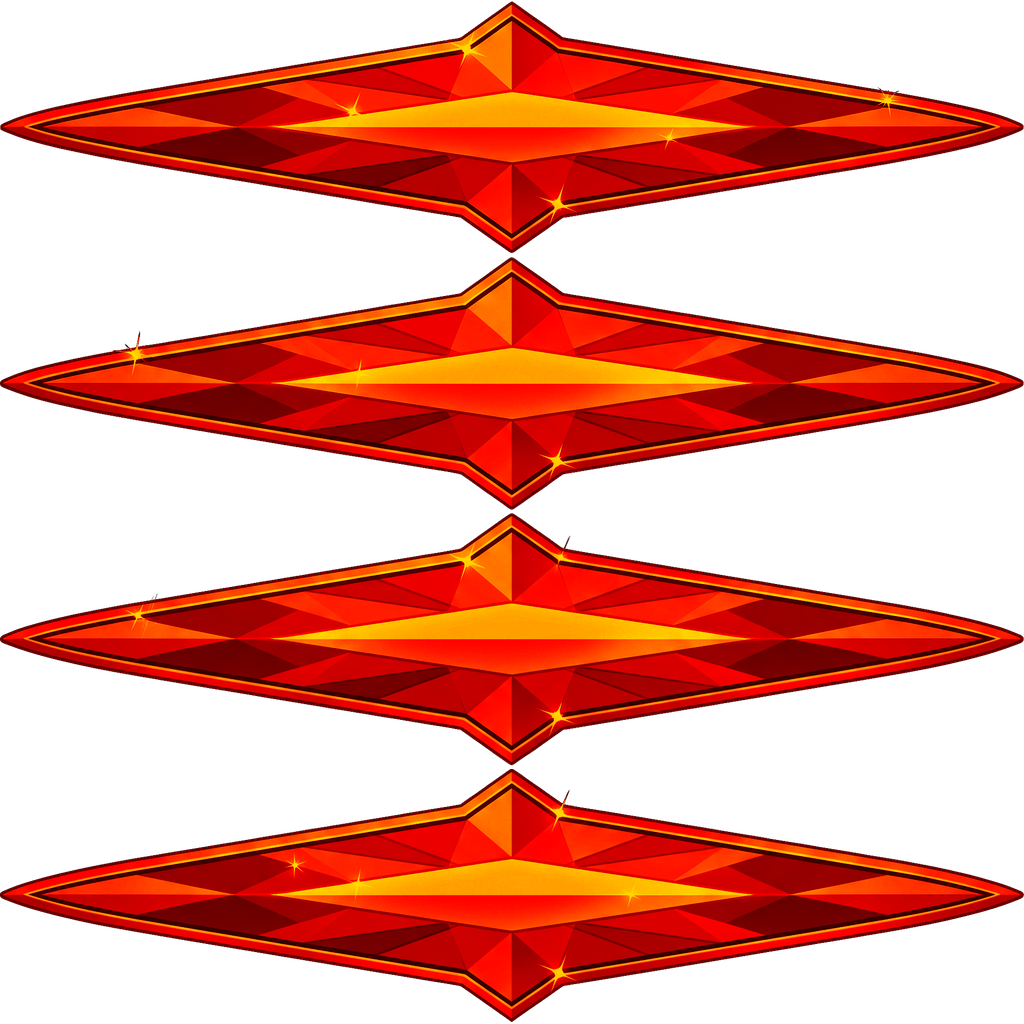
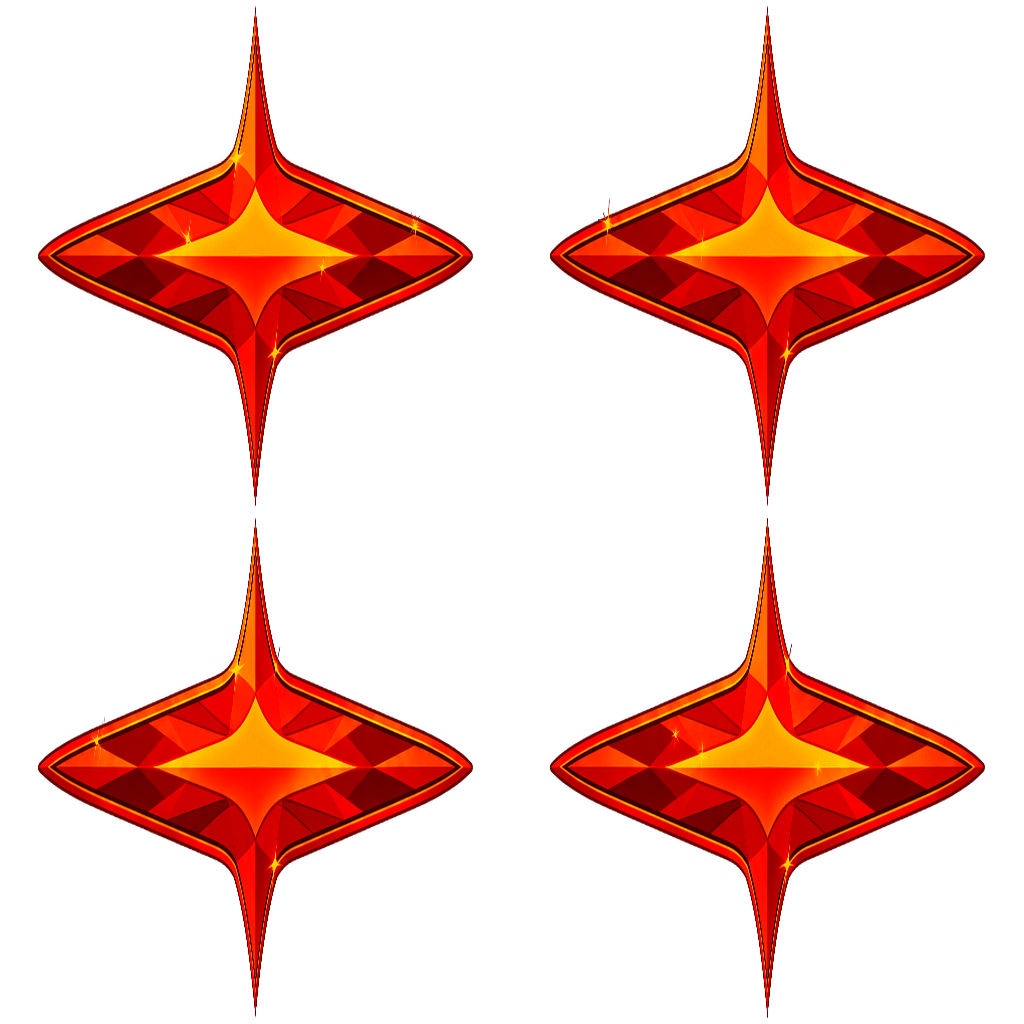
Four-pointed star note: fitted to the lane, long vertical points
The crystal set's note was a long cut gem drawn three times deeper than
its picture; its thin horizontal points stopped short of the lane's
edges and its vertical points were short. The build now draws each of
the four gems as a four-pointed star in screen proportions (gem_star):
each column of the gem stretched deeper the nearer the middle (the arms
2.6 times the gem's depth, the middle column the whole cell, the stretch
falling off as (1 - u/0.2)^3), filtered with cubic resampling weighted
by alpha so the points' edges stay smooth, and laid in 435 x 500 cells
of a 2 x 2 grid like the record's and the five-pointed star's.

The renderer draws the star from its cell over the whole note, the note
98% of its lane (noteWidthOf: the other notes keep 0.9) so its
horizontal points reach the lane's edges, and as deep as the star for
its width at the judge line (GEM_SHAPE 500/435); the band of light under
it is 22% of the note's depth. The code-drawn star (no pictures) is as
deep as it is wide, its waist thinner. A first try stretched the gem a
column at a time in the browser; its points came out lumpy, so the warp
moved into the build.

Tests: the star drawn from its cell over the whole note, its band, the
star alone 0.98 of the lane, its shape, the code star's depth.

고친 문제:
- 별 4각 노트의 가로 꼭짓점이 레인 끝에 못 미치고 위아래 꼭짓점이 짧아 잘 안 보임 → 레인 폭에 맞추고 위아래 꼭짓점을 길게 편 네 갈래 별

Claude-Session: https://claude.ai/code/session_01BwEeGPydwWxbHMk4SP9G9k

diff --git a/client/src/render/styleArt.ts b/client/src/render/styleArt.ts
@@ -210,10 +210,19 @@ function sidePlate(g: CanvasRenderingContext2D, side: ArtImage, set: Exclude<Art
 }
 
 /** CLUB's and NEON's notes.png: a cell of 512 per mark, two to a row, the note at (6, `top`) in it, 500 × `h` (its own proportions). */
-const NOTE_CELL: Record<'club' | 'neon', { top: number; h: number }> = {
-  club: { top: 6, h: 500 },
-  neon: { top: 12, h: 488 },
+const NOTE_CELL: Record<'club' | 'neon' | 'crystal', { left: number; top: number; w: number; h: number }> = {
+  club: { left: 6, top: 6, w: 500, h: 500 },
+  neon: { left: 6, top: 12, w: 500, h: 488 },
+  // the four-pointed star, deeper than it is wide (build_styles.py: gem_star)
+  crystal: { left: 38, top: 6, w: 435, h: 500 },
 };
+
+/** A cell of a set's notes.png (CLUB, NEON, CRYSTAL), the mark's, drawn over the whole note. */
+function drawCell(g: CanvasRenderingContext2D, notes: ArtImage, set: 'club' | 'neon' | 'crystal', mark: Exclude<NoteMark, 'side'>, w: number, h: number): void {
+  const i = MARK_CELL[mark];
+  const cell = NOTE_CELL[set];
+  g.drawImage(notes, (i % 2) * 512 + cell.left, Math.floor(i / 2) * 512 + cell.top, cell.w, cell.h, 0, 0, w, h);
+}
 
 /** CLUB: a record, as round as the coin it stands for, its lane's mark printed on its label. */
 function clubNote(notes: ArtImage, side: ArtImage | undefined): NotePaint {
@@ -223,9 +232,8 @@ function clubNote(notes: ArtImage, side: ArtImage | undefined): NotePaint {
       else NOTE_PAINT.round(g, w, h, mark);
       return;
     }
-    const i = MARK_CELL[mark];
     g.imageSmoothingQuality = 'high';
-    g.drawImage(notes, (i % 2) * 512 + 6, Math.floor(i / 2) * 512 + NOTE_CELL.club.top, 500, NOTE_CELL.club.h, 0, 0, w, h);
+    drawCell(g, notes, 'club', mark, w, h);
   };
 }
 
@@ -240,32 +248,33 @@ function neonNote(notes: ArtImage, side: ArtImage | undefined): NotePaint {
       else NOTE_PAINT.star5(g, w, h, mark);
       return;
     }
-    const i = MARK_CELL[mark];
     g.imageSmoothingQuality = 'high';
-    g.drawImage(notes, (i % 2) * 512 + 6, Math.floor(i / 2) * 512 + NOTE_CELL.neon.top, 500, NOTE_CELL.neon.h, 0, 0, w, h);
+    drawCell(g, notes, 'neon', mark, w, h);
     noteMark(g, mark, w / 2, h * NEON_MARK.y, Math.min(w * NEON_MARK.r, (h * NEON_MARK.r) / NOTE_STRETCH), ink(1, 0.78), false);
   };
 }
 
-/** CRYSTAL's notes.png: a gem per mark, a row of 256 each, 1024 × 253 from y = row × 256 + 1. */
-const GEM = { w: 1024, h: 253, top: 1 } as const;
+/** How much of its lane a note spans (all but the four-pointed star: see noteWidthOf). */
+const NOTE_WIDTH = 0.9;
 /**
- * How much deeper on the screen than the picture CRYSTAL draws its gem across a note (a long cut gem,
- * drawn fuller so it reads at speed as a four-pointed star), at most the note's depth; how tall the note is for its
- * width at the judge line (GEM_SHAPE: deeper than a bar, see noteShapeOf); and how much brighter its
- * facets are drawn than the picture (its darker facets lifted toward the lane's colour).
+ * CRYSTAL's notes.png: its long cut gem drawn as a four-pointed star (✦) per mark, in a cell as
+ * CLUB's and NEON's (NOTE_CELL.crystal; build_styles.py's gem_star stretches each column of the gem
+ * deeper the nearer the middle, so its short vertical points grow into long ones). The note spans
+ * GEM_WIDTH of its lane, its horizontal points at the lane's edges (see noteWidthOf), and is as deep
+ * as the star for its width at the judge line (GEM_SHAPE, see noteShapeOf); the star's facets are
+ * drawn GEM_BRIGHT brighter than the picture (its darker facets lifted toward the lane's colour).
  */
-const GEM_FULL = 3;
-const GEM_SHAPE = 0.8;
+const GEM_WIDTH = 0.98;
+const GEM_SHAPE = NOTE_CELL.crystal.h / NOTE_CELL.crystal.w;
 const GEM_BRIGHT = 1.25;
 /**
- * The band of light under CRYSTAL's gem, across the whole lane: as deep as this share of the gem, at
- * this strength in the middle. The gem's points are thin; the band carries the note's line from edge
- * to edge, as a bar's does.
+ * The band of light under CRYSTAL's star, across the whole lane: as deep as this share of the note,
+ * at this strength in the middle. The star's horizontal points are thin; the band carries the note's
+ * line from edge to edge, as a bar's does.
  */
-const GEM_BAND = { depth: 0.42, alpha: 1 } as const;
+const GEM_BAND = { depth: 0.22, alpha: 1 } as const;
 
-/** CRYSTAL: a long cut gem across the lane, its points at the lane's edges, on a band of light across it, its lane's mark cut in its heart. */
+/** CRYSTAL: a cut gem drawn as a four-pointed star across the lane, its long points at the lane's edges and the note's ends, on a band of light across it, its lane's mark cut in its heart. */
 function crystalNote(notes: ArtImage, side: ArtImage | undefined): NotePaint {
   return (g, w, h, mark) => {
     if (mark === 'side') {
@@ -273,8 +282,7 @@ function crystalNote(notes: ArtImage, side: ArtImage | undefined): NotePaint {
       else NOTE_PAINT.star4(g, w, h, mark);
       return;
     }
-    const gh = Math.min(h, (w * GEM.h * NOTE_STRETCH * GEM_FULL) / GEM.w);
-    const band = gh * GEM_BAND.depth;
+    const band = h * GEM_BAND.depth;
     const light = g.createLinearGradient(0, (h - band) / 2, 0, (h + band) / 2);
     light.addColorStop(0, ink(1, 0, 0));
     light.addColorStop(0.35, ink(1, 0.25, GEM_BAND.alpha));
@@ -285,10 +293,15 @@ function crystalNote(notes: ArtImage, side: ArtImage | undefined): NotePaint {
     g.imageSmoothingQuality = 'high';
     // drawn once into the note's picture (a canvas filter where the browser has one; as drawn where not)
     g.filter = `brightness(${GEM_BRIGHT})`;
-    g.drawImage(notes, 0, MARK_CELL[mark] * 256 + GEM.top, GEM.w, GEM.h, 0, (h - gh) / 2, w, gh);
+    drawCell(g, notes, 'crystal', mark, w, h);
     g.filter = 'none';
-    noteMark(g, mark, w / 2, h / 2, Math.min(w * 0.042, (gh * 0.2) / NOTE_STRETCH), tone(0.34), false);
+    noteMark(g, mark, w / 2, h / 2, Math.min(w * 0.042, (h * 0.04) / NOTE_STRETCH), tone(0.34), false);
   };
+}
+
+/** How much of its lane a note of the style spans: the four-pointed star reaches the lane's edges (GEM_WIDTH), the others 0.9. */
+export function noteWidthOf(style: NoteStyle): number {
+  return style === 'star4' ? GEM_WIDTH : NOTE_WIDTH;
 }
 
 /** The note style's paint: drawn from art where its pictures loaded. */
@@ -302,13 +315,13 @@ export function notePaintOf(style: NoteStyle, images: StyleImages): NotePaint {
 
 /**
  * How tall a note drawn from art looks for its width at the judge line (see noteDepthOf): CLUB's
- * record round, NEON's star as drawn, CRYSTAL's gem a little deeper than a bar (GEM_SHAPE); null where
+ * record round, NEON's star and CRYSTAL's four-pointed star as drawn (GEM_SHAPE); null where
  * it lies in a bar's depth (MECHA's plate); undefined while the style is drawn in code.
  */
 export function noteShapeOf(style: NoteStyle, images: StyleImages): number | null | undefined {
   const set = setOf(style);
   if (!set || !images[artId(set, 'notes')]) return undefined;
-  return { mecha: null, club: 1, crystal: GEM_SHAPE, neon: NOTE_CELL.neon.h / 500 }[set];
+  return { mecha: null, club: 1, crystal: GEM_SHAPE, neon: NOTE_CELL.neon.h / NOTE_CELL.neon.w }[set];
 }
 
 // ---------- long notes ----------

diff --git a/client/src/render/styleArt.test.ts b/client/src/render/styleArt.test.ts
@@ -13,6 +13,7 @@ import {
   longPaintOf,
   notePaintOf,
   noteShapeOf,
+  noteWidthOf,
   platePaintOf,
   sideTapPaintOf,
   styleImageIds,
@@ -262,17 +263,11 @@ describe.each(SETS)('the $set set drawn from art', (c) => {
       const { g, draws } = recorder();
       paint(g, 120, 96, mark);
       const d = draws[0];
-      // all of the lane's width; the gem in a row of its own, the record and the star in a cell
-      expect([d.dx, d.dw]).toEqual([0, 120]);
-      if (c.set === 'crystal') {
-        expect([d.sx, d.sy, d.sw, d.sh]).toEqual([0, i * 256 + 1, 1024, 253]);
-        // a cut gem about the note's middle, no deeper than the note
-        expect(d.dh).toBeLessThanOrEqual(96);
-        expect(d.dy).toBeCloseTo((96 - d.dh) / 2, 9);
-      } else {
-        expect([d.sx, d.sy]).toEqual([(i % 2) * 512 + 6, Math.floor(i / 2) * 512 + (c.set === 'club' ? 6 : 12)]);
-        expect([d.dy, d.dh]).toEqual([0, 96]);
-      }
+      // all of the note, from the mark's cell: the record and the five-pointed star 500 wide, the
+      // four-pointed star narrower than it is deep, in the middle of its cell
+      expect([d.dx, d.dw, d.dy, d.dh]).toEqual([0, 120, 0, 96]);
+      const cell = { club: [6, 6, 500, 500], neon: [6, 12, 500, 488], crystal: [38, 6, 435, 500] }[c.set]!;
+      expect([d.sx, d.sy, d.sw, d.sh]).toEqual([(i % 2) * 512 + cell[0], Math.floor(i / 2) * 512 + cell[1], cell[2], cell[3]]);
     });
     const { g, draws } = recorder();
     paint(g, 60, 40, 'side');
@@ -282,27 +277,26 @@ describe.each(SETS)('the $set set drawn from art', (c) => {
     expect(draws[0].dy).toBeCloseTo((40 - draws[0].dh) / 2, 9);
   });
 
-  it('keeps the record round and the star as drawn at the judge line, the gem a little deeper than a bar', () => {
+  it('keeps the record round and the stars as drawn at the judge line', () => {
     const shape = noteShapeOf(c.note, images);
-    expect(shape).toBe({ club: 1, crystal: 0.8, neon: 488 / 500 }[c.set]);
-    const depth = noteDepthOf(c.note, 0.7, 1.2, 1.7, shape);
-    expect(depth).toBeCloseTo(1.2 * shape! * 1.7, 9);
+    expect(shape).toBe({ club: 1, crystal: 500 / 435, neon: 488 / 500 }[c.set]);
+    const depth = noteDepthOf(c.note, 0.7, 0.9, 1.7, shape);
+    expect(depth).toBeCloseTo(0.9 * shape! * 1.7, 9);
   });
 
   if (c.set === 'crystal')
-    it('draws the gem fuller than its picture, on a band of light across the whole lane under it (the gem’s points are thin)', () => {
+    it('draws the four-pointed star over the whole note, on a band of light across the whole lane under it (its horizontal points are thin)', () => {
       const { g, draws, fills } = recorder();
-      // a note deep enough for the gem to keep its own proportions
       notePaintOf(c.note, images)(g, 120, 200, 'white');
-      const gem = draws[0];
-      // more than twice as deep for its width as the picture is, on the screen
-      expect(gem.dh / gem.dw).toBeGreaterThan((2 * 253 * NOTE_STRETCH) / 1024);
-      expect(gem.dh).toBeLessThan(200);
+      expect([draws[0].dx, draws[0].dy, draws[0].dw, draws[0].dh]).toEqual([0, 0, 120, 200]);
       expect(fills).toHaveLength(1);
       const band = fills[0];
       expect([band.x, band.w]).toEqual([0, 120]);
       expect(band.y + band.h / 2).toBeCloseTo(100, 9);
-      expect(band.h).toBeLessThan(gem.dh);
+      expect(band.h).toBeLessThan(200 * 0.3);
+      // it reaches the lane's edges; every other note leaves a gap between lanes
+      expect(noteWidthOf('star4')).toBeGreaterThan(0.95);
+      for (const note of ['flat', 'chamfer', 'round', 'star5'] as const) expect(noteWidthOf(note)).toBe(0.9);
     });
 
   it('draws its long note from art, its end as deep as the picture’s, its body and end lit while held', () => {

diff --git a/client/src/render/TrackRenderer.ts b/client/src/render/TrackRenderer.ts
@@ -21,7 +21,7 @@ import { FEVER_COLORS, STEM_COLORS } from './palette';
 import { disposeSkinArt, flipbookOffset, type ArtTexture, type MediaEffects, type SkinArt } from './skinArt';
 import { deckTop, EXTRA_LINE, hex, laneColorsFor, styleOf, type Skin, type SkinStyle } from './skins';
 import { beatClock, DECK_PICTURE_PX, GEAR_LIGHTS, GearLightLayer, type BeatClock } from './gearLights';
-import { artPartsOf, borderLookOf, gearArtOf, isArtHit, longPaintOf, notePaintOf, noteShapeOf, platePaintOf, sideTapPaintOf, type StyleImages } from './styleArt';
+import { artPartsOf, borderLookOf, gearArtOf, isArtHit, longPaintOf, notePaintOf, noteShapeOf, noteWidthOf, platePaintOf, sideTapPaintOf, type StyleImages } from './styleArt';
 import {
   DOTS_ACROSS,
   DOTS_LONG,
@@ -1267,7 +1267,7 @@ export class TrackRenderer {
     const mesh = this.notePool.next();
     mesh.material = this.noteMaterial(color, kind);
     const { near, far } = noteSpan(z, depth, z, null, this.extent);
-    mesh.scale.set(laneWidth * 0.9, height, near - far);
+    mesh.scale.set(laneWidth * noteWidthOf(this.style.note), height, near - far);
     mesh.position.set(x, height / 2, (near + far) / 2);
   }
 
@@ -2219,7 +2219,7 @@ export class TrackRenderer {
    * then: a new depth drops the pictures made for the old one.
    */
   private fitNoteDepth(): void {
-    const depth = noteDepthOf(this.style.note, this.barDepth, this.keyLane.width * 0.9, 1 / this.trackAspect(this.judgeZ), noteShapeOf(this.style.note, this.images));
+    const depth = noteDepthOf(this.style.note, this.barDepth, this.keyLane.width * noteWidthOf(this.style.note), 1 / this.trackAspect(this.judgeZ), noteShapeOf(this.style.note, this.images));
     const stepped = Math.round(depth / NOTE_DEPTH_STEP) * NOTE_DEPTH_STEP;
     if (Math.abs(stepped - this.noteDepth) < 1e-9) return;
     this.noteDepth = stepped;
@@ -2421,7 +2421,7 @@ export class TrackRenderer {
     if (!texture) {
       const lane = this.geometry.lanes.find((l) => noteKindOf(l) === kind) ?? this.geometry.lanes[0];
       const h = NOTE_PICTURE_PX;
-      const w = Math.round(Math.min(512, Math.max(32, (h * lane.width * 0.9) / this.laneDepths[lane.index])));
+      const w = Math.round(Math.min(512, Math.max(32, (h * lane.width * noteWidthOf(this.style.note)) / this.laneDepths[lane.index])));
       const paint = this.notePaint;
       texture = this.own(paintTexture(w, h, kind === 'side' && this.sideDots ? dotsNote : (g, pw, ph) => paint(g, pw, ph, kind)));
       this.noteTextures.set(kind, texture);

diff --git a/client/src/render/tintArt.test.ts b/client/src/render/tintArt.test.ts
@@ -7,10 +7,11 @@ describe('the note families’ depth along the track', () => {
   it('keeps the bars and the plate a bar deep, and makes the coin and the stars as deep as keeps their shape at the judge line', () => {
     // SDVX shows the track about 1.54 times shorter along than across at the judge line
     for (const style of ['flat', 'stem', 'chamfer'] as const) expect(noteDepthOf(style, bar, 0.84, 1.54)).toBe(bar);
-    // a coin as deep on the screen as it is wide; the five-pointed star a little less; the compass star wide
+    // a coin as deep on the screen as it is wide; the five-pointed star a little less; the four-pointed
+    // star (drawn in code) as deep as it is wide, its vertical points as long as its horizontal ones
     expect(noteDepthOf('round', bar, 0.84, 1.54)).toBeCloseTo(0.84 * 1.54, 9);
     expect(noteDepthOf('star5', bar, 0.84, 1.54)).toBeCloseTo(0.84 * 0.95 * 1.54, 9);
-    expect(noteDepthOf('star4', bar, 0.84, 1.54)).toBeCloseTo(0.84 * 0.62 * 1.54, 9);
+    expect(noteDepthOf('star4', bar, 0.84, 1.54)).toBeCloseTo(0.84 * 1.54, 9);
   });
 
   it('never makes them shallower than a bar nor deeper than three: the plane camera and very wide lanes flatten them a little', () => {
@@ -18,8 +19,8 @@ describe('the note families’ depth along the track', () => {
     expect(noteDepthOf('round', bar, 0.84, 3.81)).toBe(bar * 3);
     // 4K's lanes are over twice as wide
     expect(noteDepthOf('round', bar, 1.8, 1.54)).toBe(bar * 3);
-    // a camera that hardly flattens it
-    expect(noteDepthOf('star4', bar, 0.84, 1)).toBe(bar);
+    // a camera that hardly flattens a narrow lane's star
+    expect(noteDepthOf('star4', bar, 0.6, 1)).toBe(bar);
   });
 
   it('keeps the families’ shape in the wider scratch lane and the narrower side lanes; the plain bars stay as deep', () => {

diff --git a/client/src/render/tintArt.ts b/client/src/render/tintArt.ts
@@ -133,7 +133,7 @@ export const NOTE_STRETCH = 1.7;
  * How tall the coin and the stars look for their width at the judge line (the bars keep a fixed
  * depth): the coin round, the five-pointed star as drawn, the compass star wide.
  */
-const NOTE_SHAPE: Partial<Record<NoteStyle, number>> = { round: 1, star4: 0.62, star5: 0.95 };
+const NOTE_SHAPE: Partial<Record<NoteStyle, number>> = { round: 1, star4: 1, star5: 0.95 };
 
 /**
  * How deep a note of `style` is along the track: a bar `base` deep; the coin and the stars as deep
@@ -383,7 +383,8 @@ function star4Note(g: CanvasRenderingContext2D, w: number, h: number, mark: Note
     [-X, 0],
     [0, -Y],
   ];
-  const waists = around([0.25, 0.75, 1.25, 1.75].map((q) => q * Math.PI), () => [X * 0.2, Y * 0.44]);
+  // thin between its points: its vertical points as long as the note is deep, its arms as thick as a bar
+  const waists = around([0.25, 0.75, 1.25, 1.75].map((q) => q * Math.PI), () => [X * 0.2, Y * 0.27]);
   facetedStar(g, tips, waists, outline);
   // the heart
   const [kx, ky] = [X * 0.1, Y * 0.2];

diff --git a/scripts/assets/build_styles.py b/scripts/assets/build_styles.py
@@ -382,7 +382,9 @@ def mecha_hold(weld: np.ndarray, textures: dict) -> None:
 #
 # Px of a source sheet. The atlases (styleArt.ts):
 #   notes.png 1024 × 1024: a 2 × 2 grid of 512 cells (white, blue, gold, scratch), the note fitted in 500 px about
-#     the cell's middle; or, `rows`, a row of 256 per note, the note 1024 wide about the row's middle
+#     the cell's middle (CRYSTAL's four-pointed star STAR_CELL deep and as wide as its shape makes it, see gem_star;
+#     `rows`: the source sheet's notes lie one under another; without `star` they would go a row of 256 each, 1024
+#     wide about the row's middle)
 #   long.png 512 × 256: body idle | body held | end idle | end held, 128 wide (ends `end` px deep)
 #   side.png 1024 × 512: the bar over the keys at (0, 0); the side lane's own note at (0, 256)
 
@@ -393,7 +395,8 @@ SET_ART = {
         "side": {"cut": 0.105, "plate_cut": 0.21, "tint": (1 / 0.62, 0.68, 0.85), "bright": 0.62},
     },
     "crystal": {
-        "notes": {"rows": True, "gain": 1 / 0.7, "lift": 0.74, "white": 0.85},
+        # its long cut gem drawn as a four-pointed star (gem_star), in a cell as the others'
+        "notes": {"rows": True, "gain": 1 / 0.7, "lift": 0.74, "white": 0.85, "star": {"shape": 1.15, "arm": 2.6, "reach": 0.2, "power": 3}},
         "long": {"cap": 150, "idle": (1 / 0.7, 0.72, 0.8), "held": (1 / 0.6, 0.6, 0.9), "see": None},
         "side": {"cut": 0.04, "plate_cut": 0.07, "tint": (1 / 0.65, 0.7, 0.9), "bright": 0.6},
     },
@@ -437,6 +440,34 @@ def disc_of(v: np.ndarray, ys: slice, xs: slice) -> tuple[float, float, float]:
     return ys.start + b, xs.start + a, float(np.sqrt(sol[2] + a * a + b * b))
 
 
+# A four-pointed star's cell (CRYSTAL's notes): as deep as this, as wide as its shape makes it, in the middle of a
+# 512 cell's 500 (styleArt.ts: NOTE_CELL.crystal).
+STAR_CELL = 500
+
+
+def gem_star(rgba: np.ndarray, w: int, h: int, arm: float, reach: float, power: float) -> np.ndarray:
+    """CRYSTAL's long cut gem (`rgba`, fitted across a row about its middle) drawn as a four-pointed star w × h, in
+    proportions as on the screen: each column of the gem stretched deeper the nearer the middle, `arm` times the gem's
+    own depth (drawn w wide) out along its arms and rising to all of h in its middle column, the stretch falling off as
+    (1 − u / reach) ** power of the half width u, so its short vertical points grow into long ones and its horizontal
+    points stay at the edges. Filtered with the colours weighted by their alpha (no dark fringes)."""
+    sh, sw = rgba.shape[:2]
+    a = rgba[..., 3]
+    rows = np.where(a.max(axis=1) > 0.05)[0]
+    own = (rows[-1] - rows[0] + 1) * w / sw
+    cy = (rows[0] + rows[-1] + 1) / 2
+    yy, xx = np.mgrid[0:h, 0:w].astype(np.float32)
+    u = np.abs((xx + 0.5) / w - 0.5) * 2
+    stretch = arm + (h / own - arm) * np.clip(1 - u / reach, 0, 1) ** power
+    sx = (xx + 0.5) * sw / w - 0.5
+    sy = cy + (yy + 0.5 - h / 2) / (stretch * w / sw) - 0.5
+    pre = [rgba[..., 0] * a, rgba[..., 1] * a, a]
+    out = [ndimage.map_coordinates(c, [sy, sx], order=3, mode="constant", cval=0.0) for c in pre]
+    oa = np.clip(out[2], 0, 1)
+    colour = [np.where(oa > 1e-3, np.clip(c / np.maximum(oa, 1e-3), 0, 1), 0) for c in out[:2]]
+    return np.stack([colour[0], colour[1], np.zeros_like(oa), oa], axis=2).astype(np.float32)
+
+
 def set_notes(cid: str, textures: dict) -> None:
     c = SET_ART[cid]["notes"]
     a = load(SRC / cid / "notes.jpg")
@@ -460,7 +491,13 @@ def set_notes(cid: str, textures: dict) -> None:
         if c.get("disc"):
             alpha = alpha * circle_mask(h, w)
         rgba = tint(unpremultiply(crop, alpha), alpha, gain=c["gain"], lift=c["lift"], white=c["white"])
-        if c["rows"]:
+        if c.get("star"):
+            st = c["star"]
+            r, col = divmod(i, 2)
+            sw = round(STAR_CELL / st["shape"])
+            star = gem_star(fit_into(rgba, 1024, 256), sw, STAR_CELL, st["arm"], st["reach"], st["power"])
+            paste(atlas, star, col * 512 + 6 + (500 - sw) // 2, r * 512 + 6)
+        elif c["rows"]:
             paste(atlas, fit_into(rgba, 1024, 256), 0, i * 256)
         else:
             r, col = divmod(i, 2)

diff --git a/assets-src/PROVENANCE.md b/assets-src/PROVENANCE.md
@@ -1766,3 +1766,7 @@
 - 아래로만 던지던 것을 사방으로: 메카 섬광의 불똥 줄기 열 개, 세트와 플래시 · 거품의 조각 여덟 개(45°마다 조금씩 어긋나게), 거품의 물보라 일곱, 플레어의 별빛은 줄기를 따라 위아래로 조금씩. 메카의 용접 불꽃 72개도 사방으로(떨어지는 휨 없이), 크리스털 파편 고리는 그대로 뒤집어 주로 기어 쪽으로.
 - 누르는 동안의 반짝임은 빛의 둘레 위아래에, 거품은 판정선 아래에서 위로 지나 올라가고, LED 그리드는 판정선을 가운데로 위아래 13줄의 물결과 위아래로 대칭인 레벨 미터.
 
+## 별 4각 노트를 네 갈래 별로 (2026-11-06)
+
+사용자 피드백("사각별은 가로 길이를 레인에 맞추고, 세로 뾰족한 부분을 늘리는 방향으로 가시성을 키워줘")으로 크리스털 세트의 `notes.png`를 같은 원본(`assets-src/styles/crystal/notes.jpg`)에서 다시 만들었습니다(새로 생성한 그림은 없음). 길게 깎은 보석 넷(건반마다)을 각각 화면 비율의 네 갈래 별로 폈습니다(`build_styles.py`의 `gem_star`): 보석의 열마다 가운데에 가까울수록 더 깊게 늘려, 팔은 보석 깊이의 2.6배, 가운데 열은 칸 전체 깊이까지(늘림이 반폭 u에 대해 (1 − u/0.2)^3으로 줄어듦), 3차 보간에 알파 가중으로 거른 뒤 435 × 500 칸에 담아 2 × 2 칸(512)으로 배치합니다(원형·별 5각과 같은 배치, 예전의 1024 × 256 줄 배치는 없앰). 가로 꼭짓점은 칸의 양 끝, 세로 꼭짓점은 칸의 위아래 끝에 닿습니다.
+
